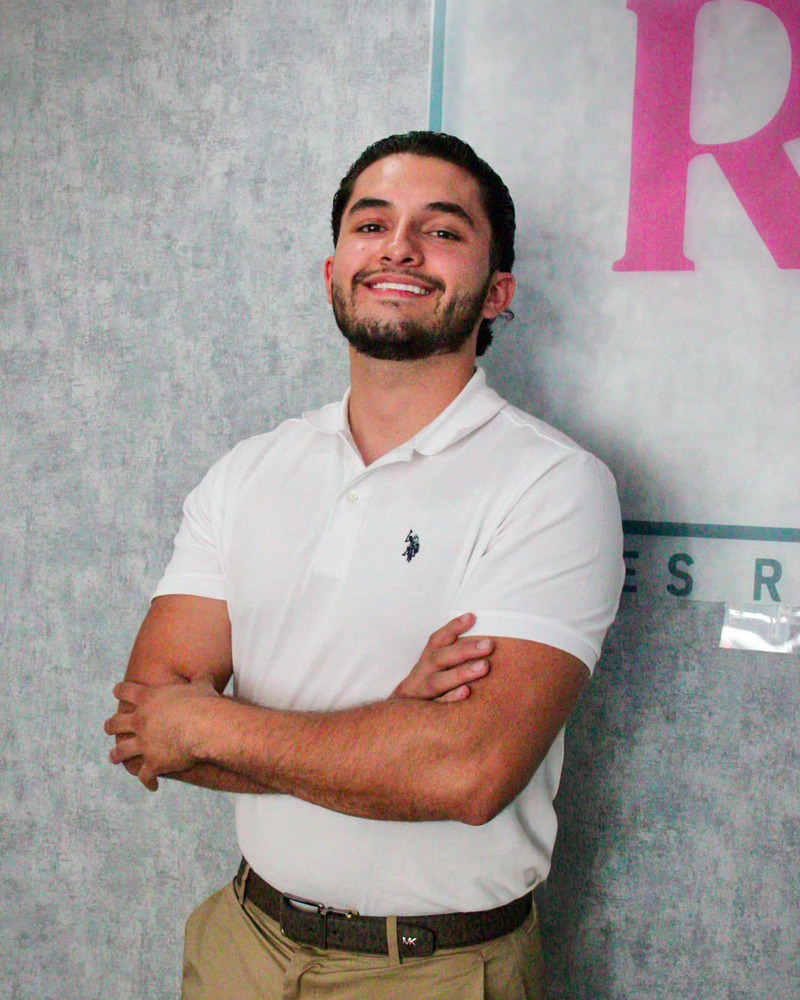
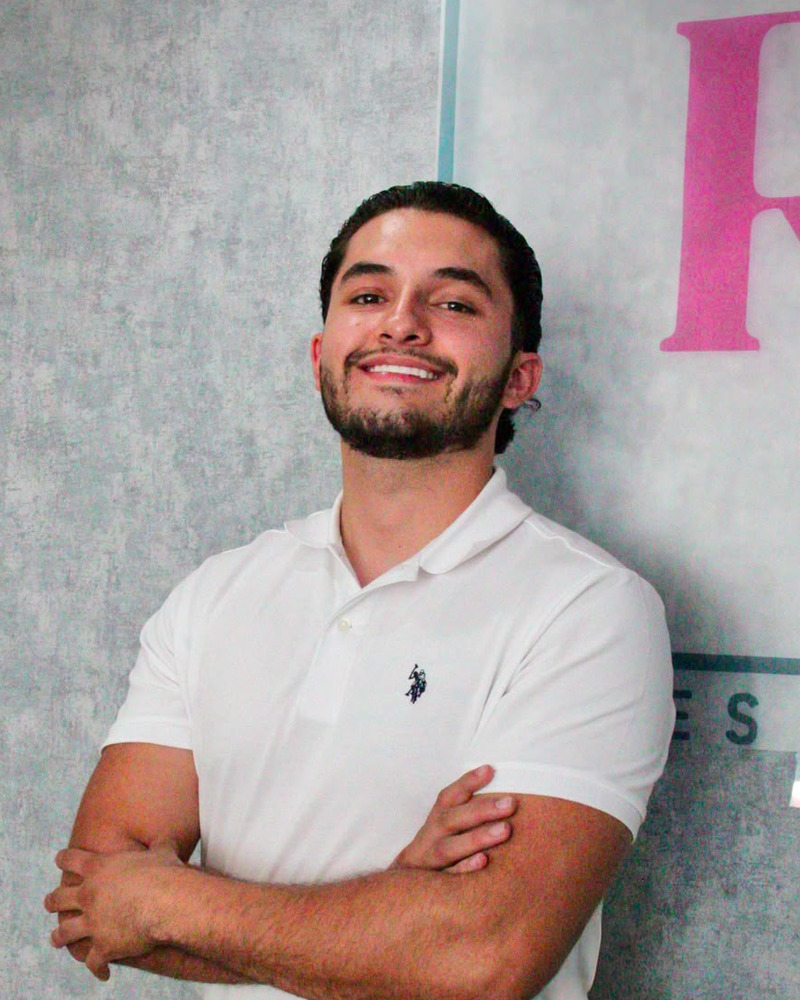
Reencuadra los retratos del equipo con la cara centrada
El recorte anterior tomaba la foto completa desde arriba, asi que cada
persona quedaba a distinta distancia y a distinto tamano dentro de su
tarjeta. Se veia desordenado al verlas en fila.

Ahora se detecta la cara de cada quien y el recorte se calcula a partir
de ahi, con los mismos parametros para las cuatro:

- la cara ocupa el 21% del alto del encuadre
- su centro queda al 32% desde arriba, dejando aire sobre la cabeza
- centrada horizontalmente sobre la cara, sin salirse de la foto

Quedan retratos de medio cuerpo consistentes entre si.

De paso bajan de peso, porque el recorte descarta el fondo sobrante:
la seccion pasa de 1.13 MB a 891 KB.

Las URLs suben a ?v=15 por el cache de un ano de las imagenes.

diff --git a/index.html b/index.html
@@ -23,7 +23,7 @@
   <link rel="preconnect" href="https://fonts.googleapis.com" />
   <link rel="preconnect" href="https://fonts.gstatic.com" crossorigin />
   <link href="https://fonts.googleapis.com/css2?family=Maven+Pro:wght@400;500;600;700;800&display=swap" rel="stylesheet" />
-  <link rel="stylesheet" href="assets/css/styles.css?v=14" />
+  <link rel="stylesheet" href="assets/css/styles.css?v=15" />
   <script type="application/ld+json">
   {
     "@context": "https://schema.org",
@@ -316,7 +316,7 @@
     <div class="container">
       <div class="about-grid">
         <div class="about-media rv" data-rv="left">
-          <img src="assets/img/team/equipo.jpg?v=14" alt="Equipo de REAL Bienes Raíces en su oficina de La Ceja" loading="lazy" width="1400" height="933" />
+          <img src="assets/img/team/equipo.jpg?v=15" alt="Equipo de REAL Bienes Raíces en su oficina de La Ceja" loading="lazy" width="1400" height="933" />
           <div class="badge">
             <svg viewBox="0 0 24 24" fill="none" stroke="currentColor" stroke-width="2" stroke-linecap="round" stroke-linejoin="round"><path d="M12 22s8-4 8-10V5l-8-3-8 3v7c0 6 8 10 8 10Z"/></svg>
             Confianza y respaldo
@@ -558,7 +558,7 @@
 
   <div class="toast" id="toast" role="status"></div>
 
-  <script src="assets/js/data.js?v=14"></script>
-  <script src="assets/js/main.js?v=14"></script>
+  <script src="assets/js/data.js?v=15"></script>
+  <script src="assets/js/main.js?v=15"></script>
 </body>
 </html>

diff --git a/propiedad.html b/propiedad.html
@@ -10,7 +10,7 @@
   <link rel="preconnect" href="https://fonts.googleapis.com" />
   <link rel="preconnect" href="https://fonts.gstatic.com" crossorigin />
   <link href="https://fonts.googleapis.com/css2?family=Maven+Pro:wght@400;500;600;700;800&display=swap" rel="stylesheet" />
-  <link rel="stylesheet" href="assets/css/styles.css?v=14" />
+  <link rel="stylesheet" href="assets/css/styles.css?v=15" />
 </head>
 <body>
 
@@ -146,7 +146,7 @@
 
   <div class="toast" id="toast" role="status"></div>
 
-  <script src="assets/js/data.js?v=14"></script>
-  <script src="assets/js/property.js?v=14"></script>
+  <script src="assets/js/data.js?v=15"></script>
+  <script src="assets/js/property.js?v=15"></script>
 </body>
 </html>

diff --git a/legal.html b/legal.html
@@ -11,7 +11,7 @@
   <link rel="preconnect" href="https://fonts.googleapis.com" />
   <link rel="preconnect" href="https://fonts.gstatic.com" crossorigin />
   <link href="https://fonts.googleapis.com/css2?family=Maven+Pro:wght@400;500;600;700;800&display=swap" rel="stylesheet" />
-  <link rel="stylesheet" href="assets/css/styles.css?v=14" />
+  <link rel="stylesheet" href="assets/css/styles.css?v=15" />
 </head>
 <body>
 
@@ -314,7 +314,7 @@
     </span>
   </a>
 
-  <script src="assets/js/data.js?v=14"></script>
-  <script src="assets/js/legal.js?v=14"></script>
+  <script src="assets/js/data.js?v=15"></script>
+  <script src="assets/js/legal.js?v=15"></script>
 </body>
 </html>

diff --git a/assets/js/main.js b/assets/js/main.js
@@ -445,7 +445,7 @@
       .map(
         (m) => `
       <figure class="team-member">
-        <img src="assets/img/team/${m.foto}.jpg?v=14" alt="${m.nombre} — REAL Bienes Raíces" loading="lazy" width="640" height="800" />
+        <img src="assets/img/team/${m.foto}.jpg?v=15" alt="${m.nombre} — REAL Bienes Raíces" loading="lazy" width="640" height="800" />
         <figcaption>
           <span class="nm">${m.nombre}</span>
           ${m.cargo ? `<span class="rol">${m.cargo}</span>` : ""}
